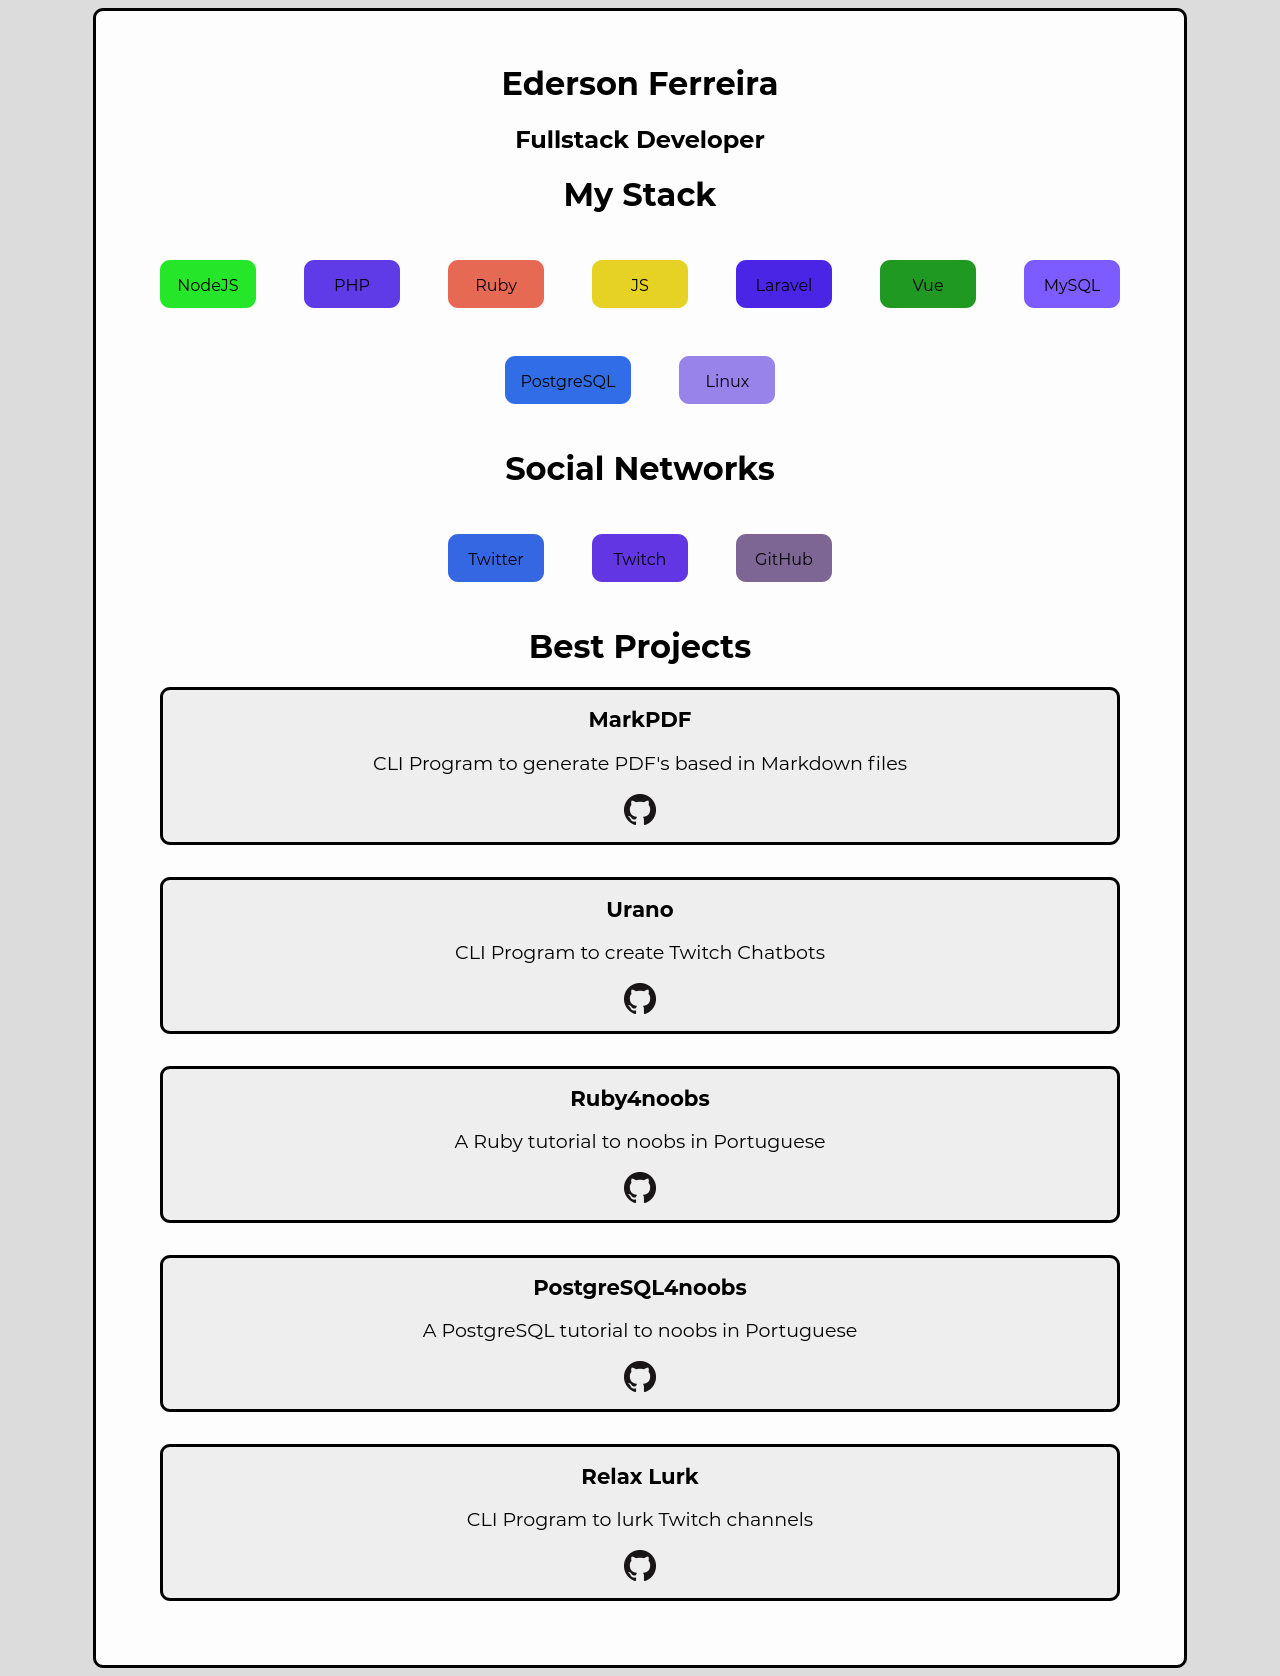
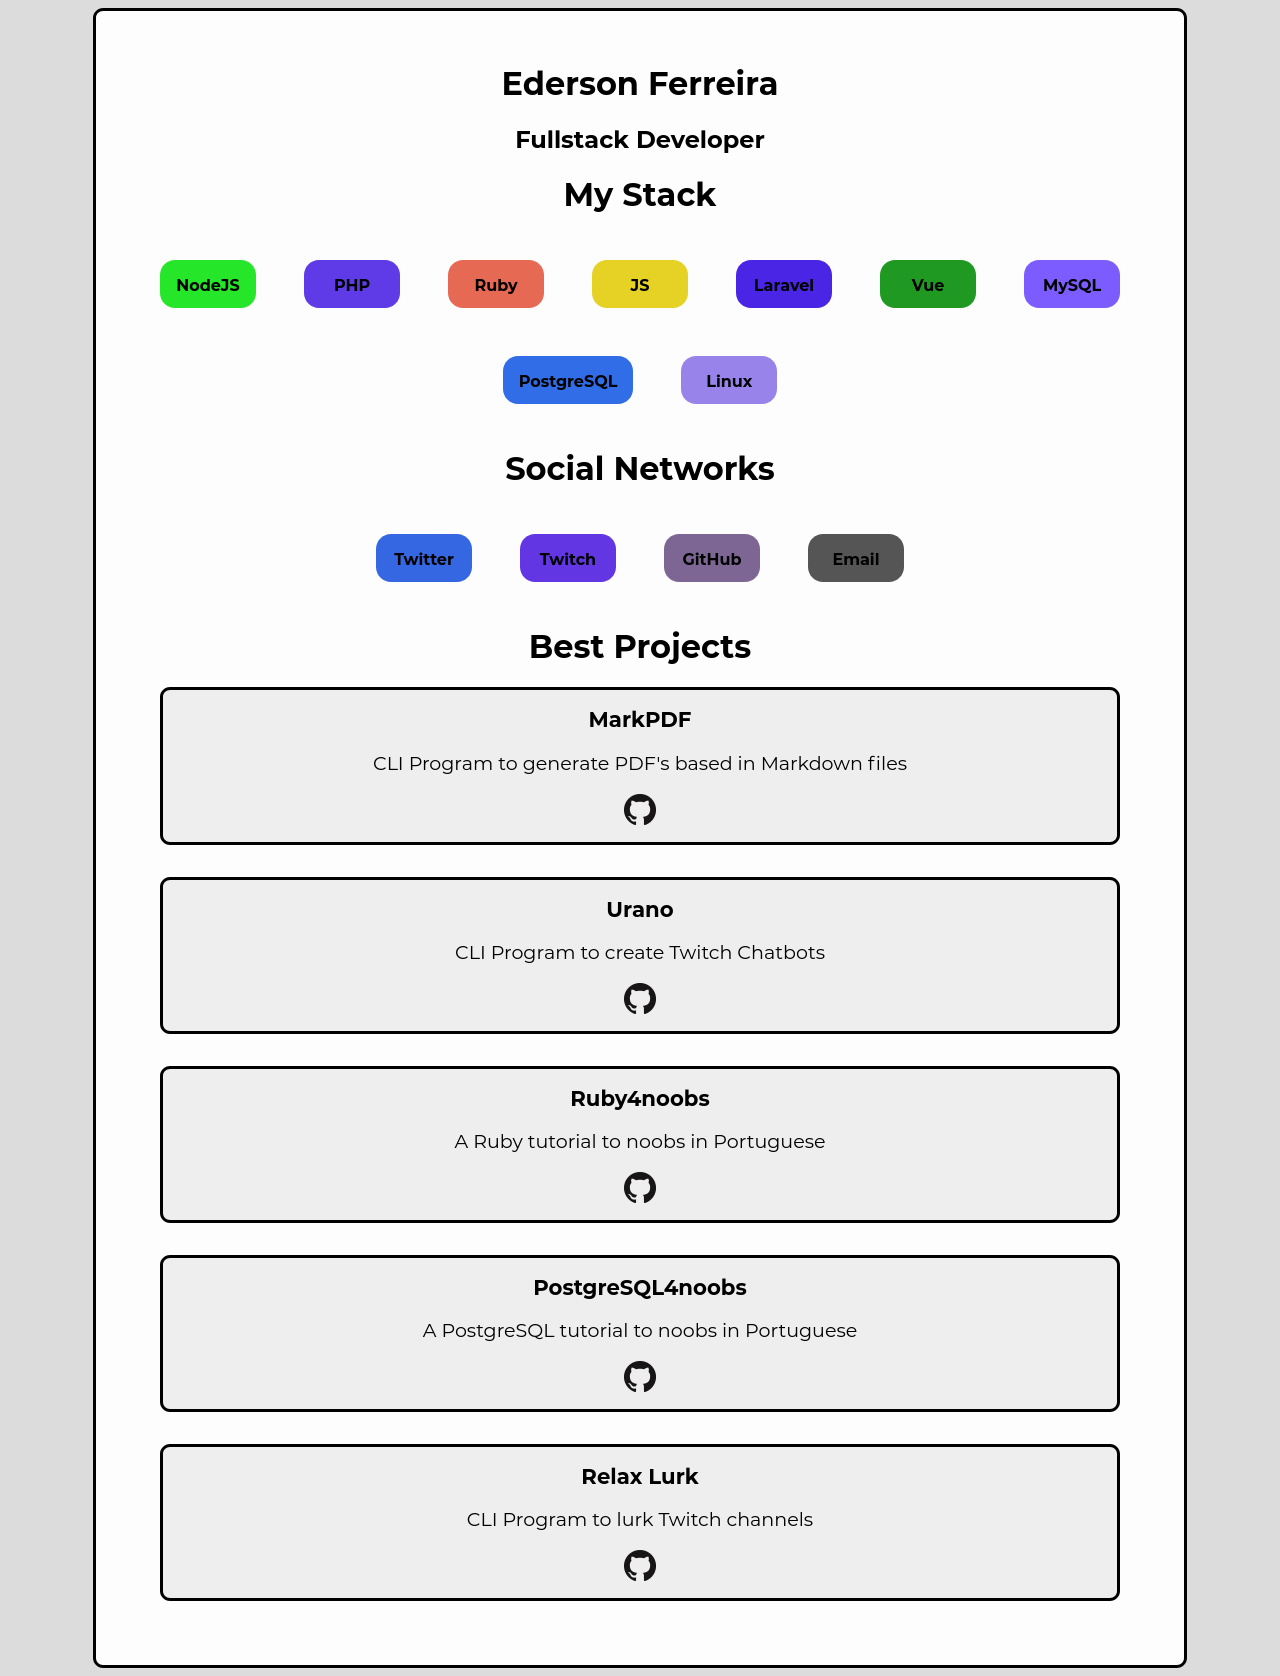
adding email and running prettier

diff --git a/src/components/Portifolio.vue b/src/components/Portifolio.vue
@@ -38,14 +38,39 @@
         name="GitHub"
         link="https://github.com/edersonferreira/"
       />
+      <Button
+        color="555555"
+        name="Email"
+        link="mailto:name@edersondeveloper@gmail.com"
+      />
     </div>
 
     <h1>Best Projects</h1>
-    <Project name="MarkPDF" about="CLI Program to generate PDF's based in Markdown files" link="markpdf" />
-    <Project name="Urano" about="CLI Program to create Twitch Chatbots" link="urano-twitch" />
-    <Project name="Ruby4noobs" about="A Ruby tutorial to noobs in Portuguese" link="ruby4noobs" />
-    <Project name="PostgreSQL4noobs" about="A PostgreSQL tutorial to noobs in Portuguese" link="postgresql4noobs" />
-    <Project name="Relax Lurk" about="CLI Program to lurk Twitch channels" link="relax-lurk" />
+    <Project
+      name="MarkPDF"
+      about="CLI Program to generate PDF's based in Markdown files"
+      link="markpdf"
+    />
+    <Project
+      name="Urano"
+      about="CLI Program to create Twitch Chatbots"
+      link="urano-twitch"
+    />
+    <Project
+      name="Ruby4noobs"
+      about="A Ruby tutorial to noobs in Portuguese"
+      link="ruby4noobs"
+    />
+    <Project
+      name="PostgreSQL4noobs"
+      about="A PostgreSQL tutorial to noobs in Portuguese"
+      link="postgresql4noobs"
+    />
+    <Project
+      name="Relax Lurk"
+      about="CLI Program to lurk Twitch channels"
+      link="relax-lurk"
+    />
   </main>
 </template>
 

diff --git a/src/assets/css/portifolio.css b/src/assets/css/portifolio.css
@@ -1,13 +1,13 @@
 @import url('https://fonts.googleapis.com/css2?family=Montserrat:wght@400;700&display=swap');
 
-body{
+body {
   background-color: rgb(220, 220, 220);
 }
-a{
+a {
   text-decoration: none;
   color: black;
 }
-main{
+main {
   text-align: center;
   font-family: 'Montserrat';
   width: 80vw;
@@ -20,10 +20,10 @@ main{
   transition: 400ms;
   padding: 2em;
 }
-main:hover{
+main:hover {
   box-shadow: 0px 0px 15px black;
 }
-.buttonBox{
+.buttonBox {
   display: flex;
   justify-content: center;
   flex-wrap: wrap;

diff --git a/src/assets/css/project.css b/src/assets/css/project.css
@@ -1,4 +1,4 @@
-.project{
+.project {
   width: 90%;
   padding: 1em;
   border-style: solid;
@@ -8,14 +8,14 @@
   margin-right: auto;
   margin-bottom: 2em;
 }
-.ProjectName{
+.ProjectName {
   font-weight: bold;
   font-size: 2ch;
 }
-.aboutProject{
+.aboutProject {
   font-size: 1.8ch;
 }
-.linkProject{
+.linkProject {
   background-image: url(../icons/github-icon.png);
   width: 2em;
   height: 2em;

diff --git a/src/components/Button.vue b/src/components/Button.vue
@@ -1,5 +1,7 @@
 <template>
-  <a :style="style" :href="link" class="tech" target="_blank">{{ name }}</a>
+  <a :style="style" :href="link" class="tech" target="_blank"
+    ><strong>{{ name }}</strong></a
+  >
 </template>
 
 <script>

diff --git a/src/assets/css/button.css b/src/assets/css/button.css
@@ -1,8 +1,8 @@
-.tech{
+.tech {
   min-width: 4em;
   padding: 1em;
   height: 1em;
-  border-radius: 10px;
+  border-radius: 15px;
   color: black;
   text-decoration: none;
   margin: 1.5em;
